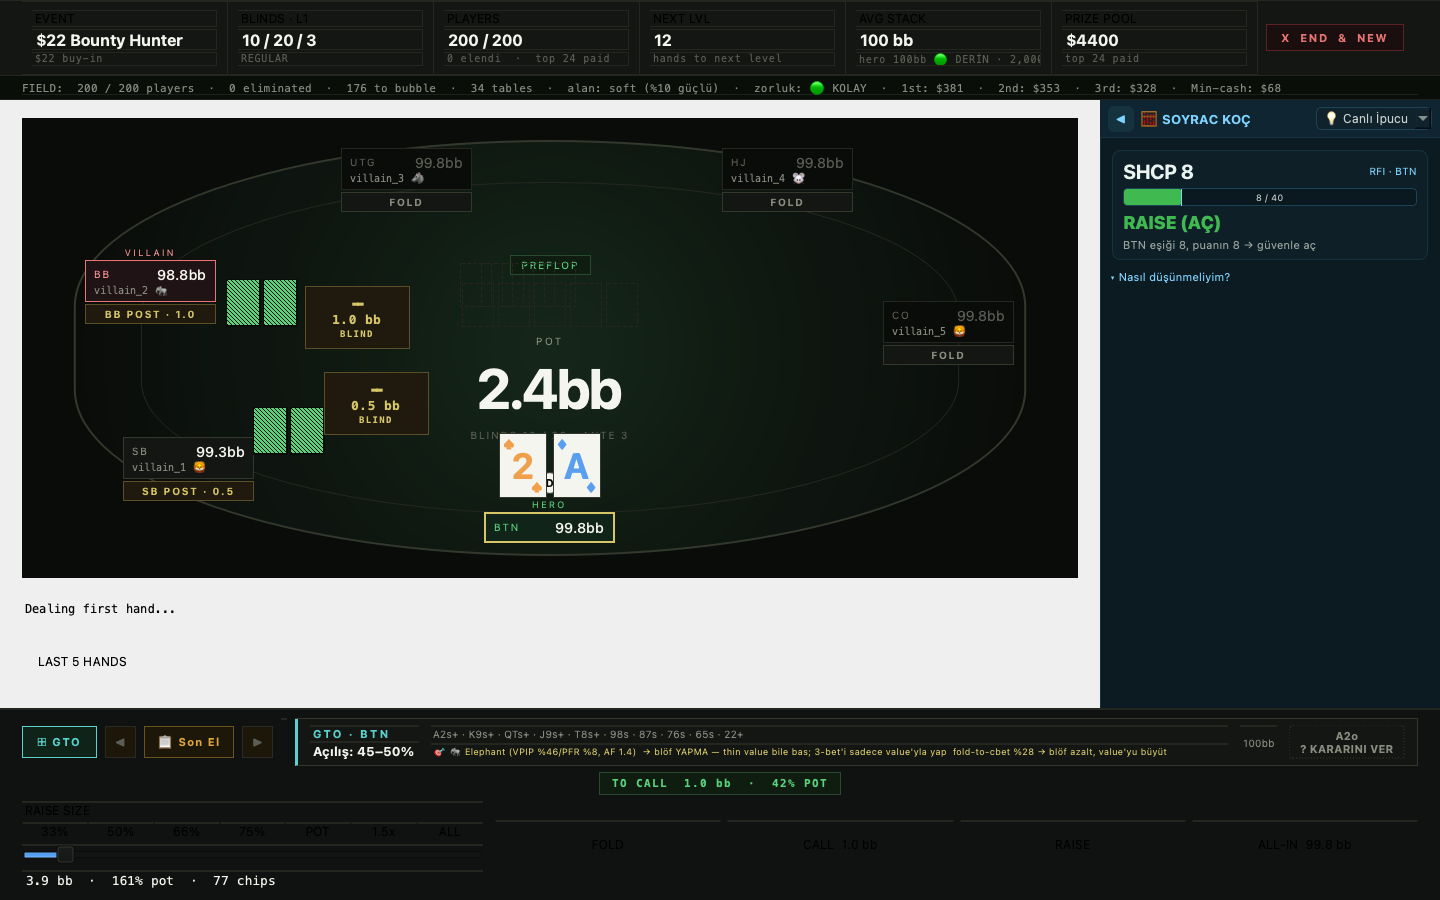
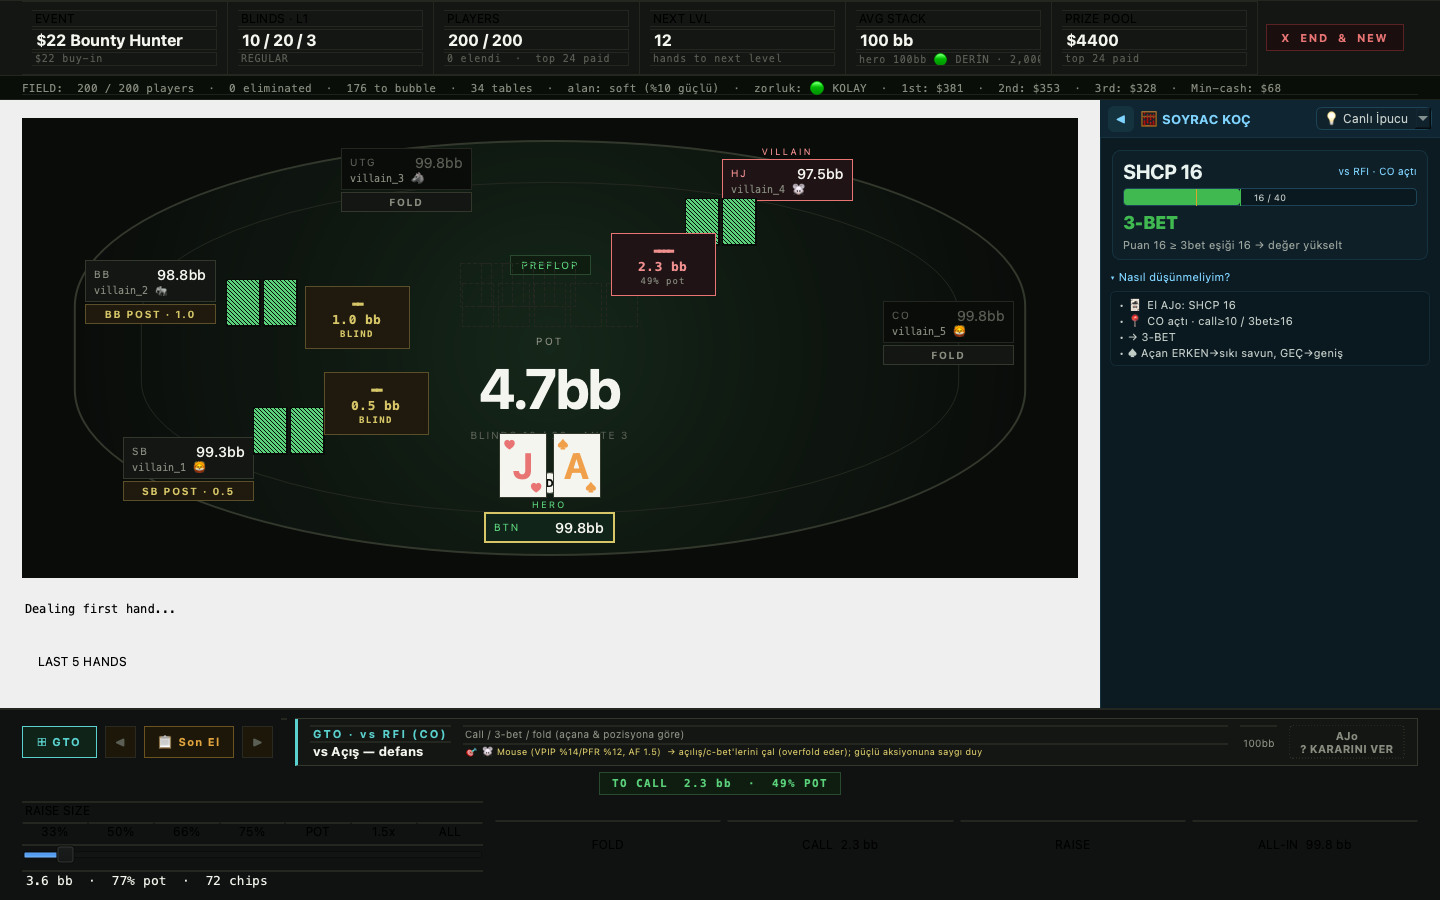
D158: Soyrac koç UI-empati cilası — boş-verdict & review durumu düzeltildi
Canlı Koç Faz 5: PNG render + gerçek-user gözü (memory empati kuralı). Yakalanan
2 sorun düzeltildi: (1) ilk açılışta boş 'SHCP —' kartı + beyaz boş çubuk →
nötr durum ('🧮 Hazır / El bekleniyor…', çubuk gizli). (2) el-sonu review'da
üstte boş verdict kartı kalıyordu → review odakta üst-verdict/expander/chain/flow
gizlenir, sonraki kararda geri gelir. Render durumları: hint-preflop, quiz-mask,
quiz-reveal, postflop (tier+flow+altın-kural), commit-gate, review, collapsed —
hepsi temiz/okunur/eğitsel doğrulandı. Showcase: docs/screens/soyrac_integ_full.png.

diff --git a/champion_poker_training_os/app/ui/components/soyrac_coach_panel.py b/champion_poker_training_os/app/ui/components/soyrac_coach_panel.py
@@ -189,6 +189,11 @@ class SoyracCoachPanel(QFrame):
         self.chain.setVisible(False)
         self.flow.setVisible(False)
         self.review.setVisible(False)
+        # İlk açılış nötr durumu (boş "SHCP —" + beyaz çubuk göstermesin)
+        self.thresh_bar.setVisible(False)
+        self.score_badge.setText("🧮 Hazır")
+        self.decision_lbl.setText("El bekleniyor…")
+        self._set_tone(self.decision_lbl, "hidden")
         self._sync_mode_ui()
 
     # ════ MOD ════
@@ -214,6 +219,9 @@ class SoyracCoachPanel(QFrame):
         self._clear_flash()
         if not explain or self._mode == "silent":
             return
+        # review'dan dönüşte üst verdict'i geri göster
+        self.flash.setVisible(True)
+        self.expander.setVisible(True)
         score = explain.get("score")
         self.score_badge.setText(f"SHCP {score}" if score is not None else explain.get("tier", "—"))
         self.scenario_chip.setText(explain.get("scenario_label", ""))
@@ -308,6 +316,11 @@ class SoyracCoachPanel(QFrame):
             link.setCursor(Qt.PointingHandCursor)
             link.clicked.connect(lambda: self.study_leak.emit(worst))
             self.review_v.addWidget(link); self._review_rows.append(link)
+        # review odakta: üstteki karar-anı verdict'ini gizle (boş kart görünmesin)
+        self.flash.setVisible(False)
+        self.expander.setVisible(False)
+        self.chain.setVisible(False)
+        self.flow.setVisible(False)
         self.review.setVisible(True)
 
     # ════ yardımcılar ════